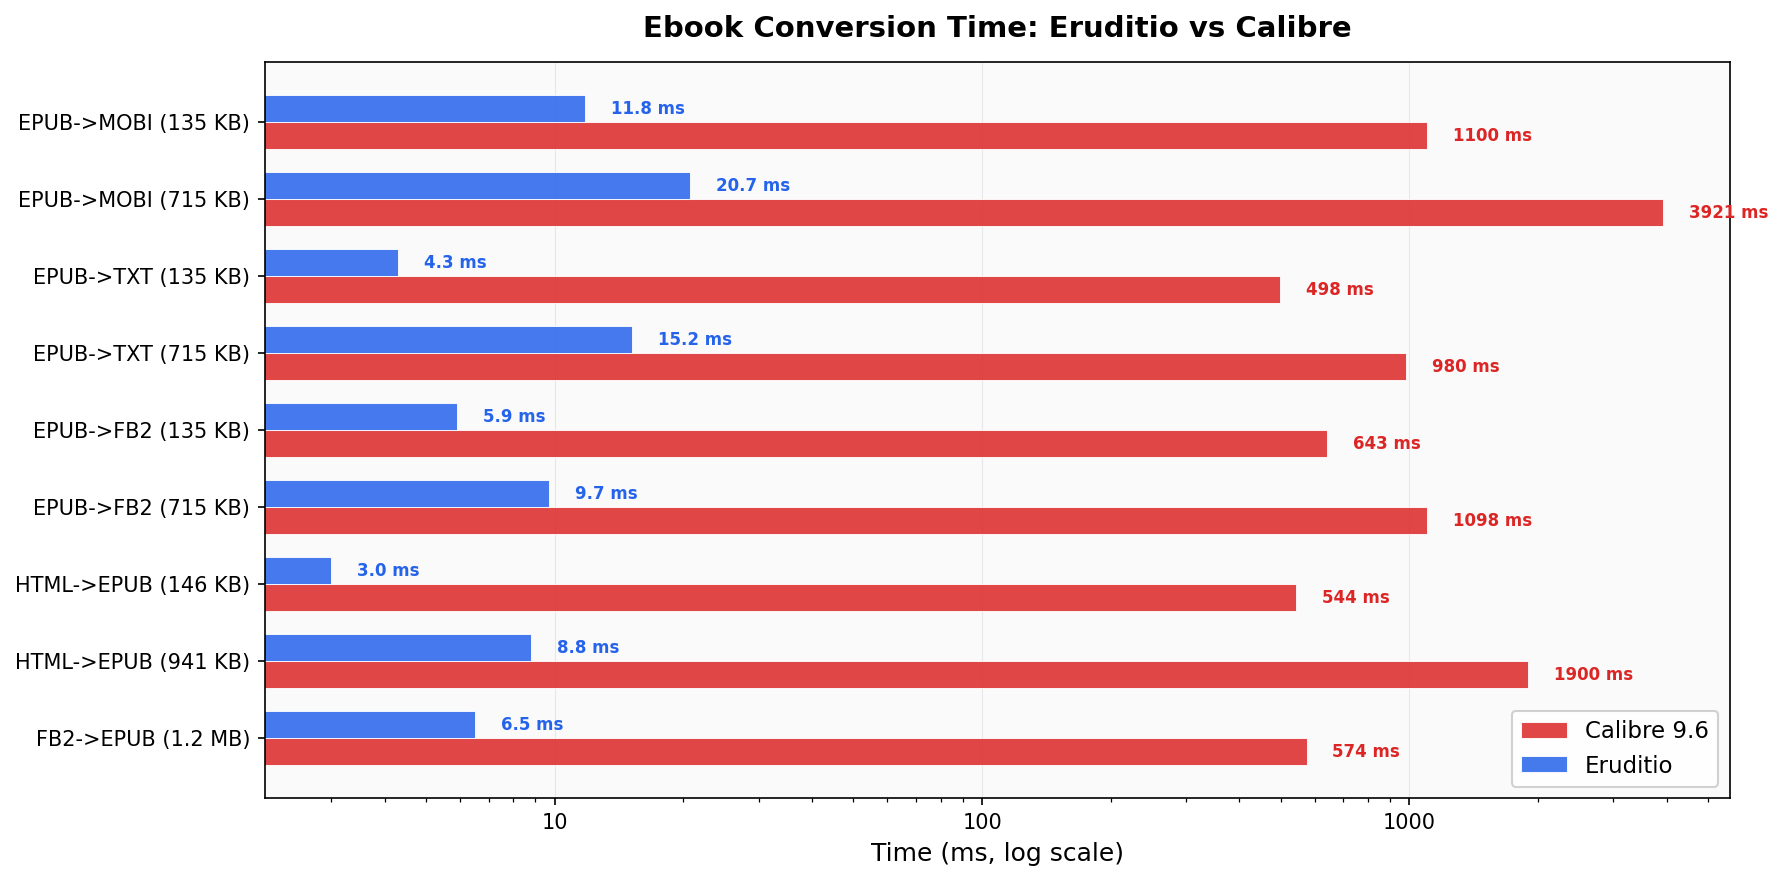
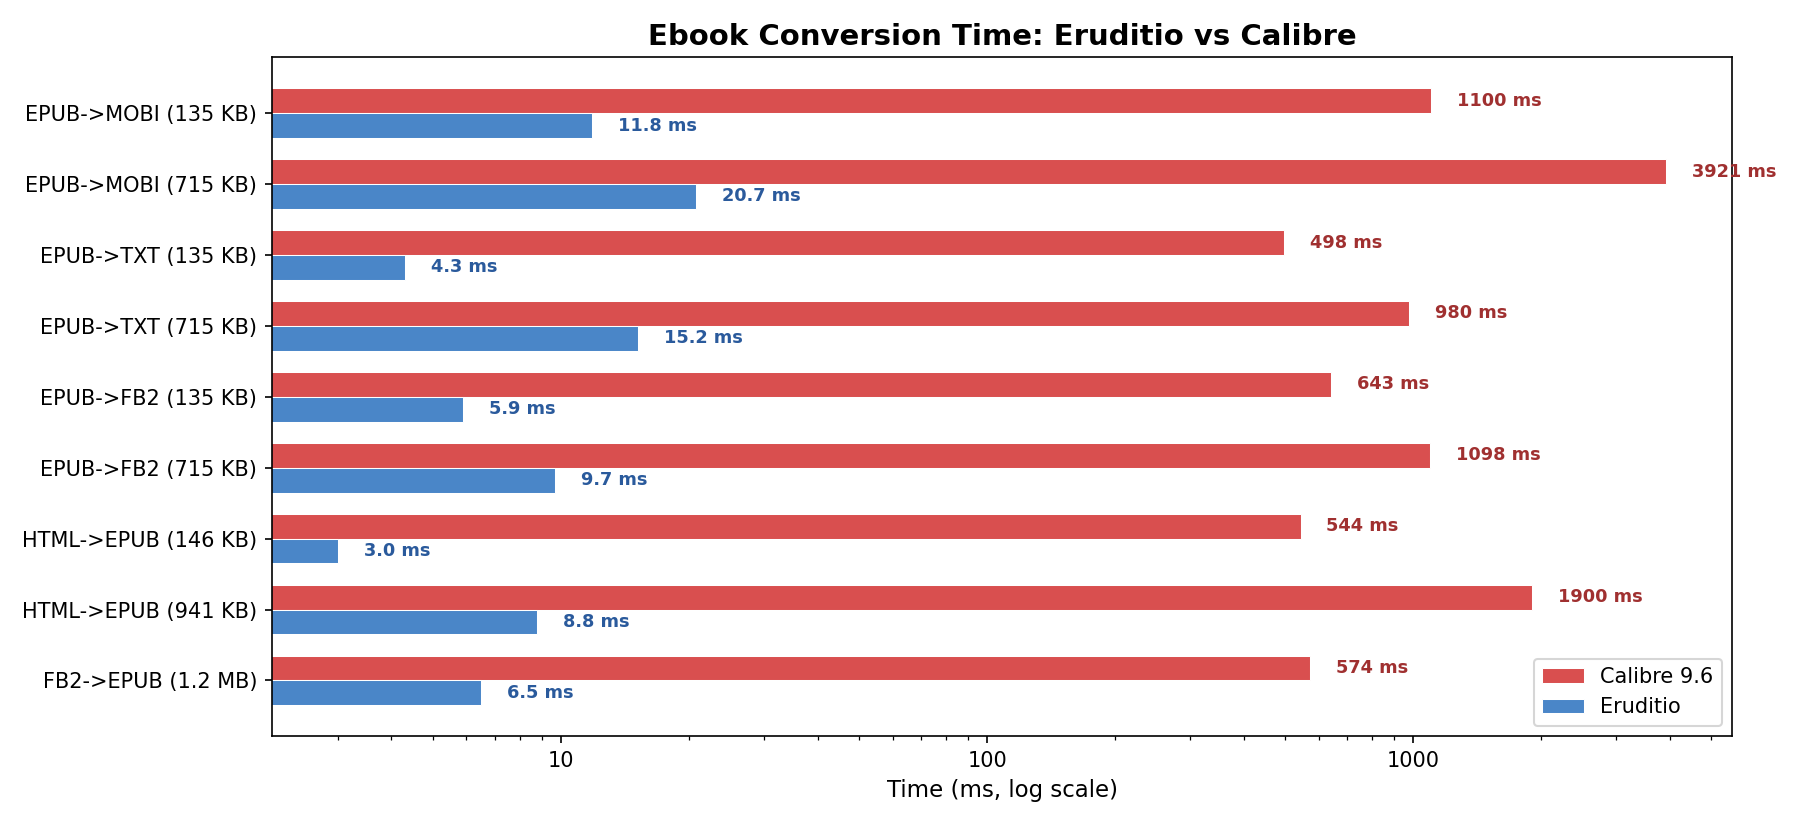
docs: update README with SIMD intrinsics benchmarks and add plot generation script
Add SIMD Intrinsics Throughput section to README with AVX-512 vs Scalar
performance table. Add scripts/generate_plots.py for reproducible benchmark
visualization from Criterion JSON data. Regenerate all benchmark plots.

diff --git a/scripts/generate_plots.py b/scripts/generate_plots.py
@@ -1,0 +1,187 @@
+#!/usr/bin/env python3
+"""Generate benchmark plots for the Eruditio README.
+
+Outputs:
+  media/conversion_time.png  — Eruditio vs Calibre bar chart (log scale)
+  media/speedup.png          — Speedup factor bar chart
+  media/intrinsics.png       — SIMD intrinsics throughput (scalar vs AVX512)
+"""
+
+import json
+from pathlib import Path
+
+import matplotlib
+matplotlib.use("Agg")
+import matplotlib.pyplot as plt
+import matplotlib.ticker as ticker
+import numpy as np
+
+ROOT = Path(__file__).resolve().parent.parent
+MEDIA = ROOT / "media"
+CRITERION = ROOT / "target" / "criterion"
+
+# ── Calibre comparison data (from real-world median-of-7 measurements) ────────
+
+CONVERSIONS = [
+    ("EPUB->MOBI (135 KB)",  11.8,  1100),
+    ("EPUB->MOBI (715 KB)",  20.7,  3921),
+    ("EPUB->TXT (135 KB)",    4.3,   498),
+    ("EPUB->TXT (715 KB)",   15.2,   980),
+    ("EPUB->FB2 (135 KB)",    5.9,   643),
+    ("EPUB->FB2 (715 KB)",    9.7,  1098),
+    ("HTML->EPUB (146 KB)",   3.0,   544),
+    ("HTML->EPUB (941 KB)",   8.8,  1900),
+    ("FB2->EPUB (1.2 MB)",    6.5,   574),
+]
+
+# ── Plot 1: Conversion time (horizontal bar, log scale) ──────────────────────
+
+def plot_conversion_time():
+    labels = [c[0] for c in CONVERSIONS]
+    eruditio = [c[1] for c in CONVERSIONS]
+    calibre = [c[2] for c in CONVERSIONS]
+
+    fig, ax = plt.subplots(figsize=(12, 5.5))
+    y = np.arange(len(labels))
+    h = 0.35
+
+    bars_c = ax.barh(y - h / 2, calibre, h, label="Calibre 9.6", color="#d94f4f",
+                     edgecolor="white", linewidth=0.5)
+    bars_e = ax.barh(y + h / 2, eruditio, h, label="Eruditio", color="#4a86c8",
+                     edgecolor="white", linewidth=0.5)
+
+    ax.set_xscale("log")
+    ax.set_xlabel("Time (ms, log scale)", fontsize=11)
+    ax.set_yticks(y)
+    ax.set_yticklabels(labels, fontsize=10)
+    ax.invert_yaxis()
+    ax.set_title("Ebook Conversion Time: Eruditio vs Calibre", fontsize=14, fontweight="bold")
+    ax.legend(loc="lower right", fontsize=10)
+    ax.xaxis.set_major_formatter(ticker.ScalarFormatter())
+
+    for bar, val in zip(bars_e, eruditio):
+        ax.text(bar.get_width() * 1.15, bar.get_y() + bar.get_height() / 2,
+                f"{val} ms", va="center", fontsize=8.5, color="#2a5a9c", fontweight="bold")
+    for bar, val in zip(bars_c, calibre):
+        ax.text(bar.get_width() * 1.15, bar.get_y() + bar.get_height() / 2,
+                f"{val} ms", va="center", fontsize=8.5, color="#a03030", fontweight="bold")
+
+    fig.tight_layout()
+    fig.savefig(MEDIA / "conversion_time.png", dpi=150)
+    plt.close(fig)
+    print(f"  wrote {MEDIA / 'conversion_time.png'}")
+
+
+# ── Plot 2: Speedup factor ───────────────────────────────────────────────────
+
+def plot_speedup():
+    labels = [c[0] for c in CONVERSIONS]
+    speedups = [round(c[2] / c[1]) for c in CONVERSIONS]
+    avg = sum(speedups) / len(speedups)
+
+    fig, ax = plt.subplots(figsize=(12, 5))
+    y = np.arange(len(labels))
+
+    # Gradient-like coloring: darker blue for higher speedup
+    max_s = max(speedups)
+    colors = [plt.cm.Blues(0.35 + 0.55 * s / max_s) for s in speedups]
+
+    bars = ax.barh(y, speedups, 0.55, color=colors, edgecolor="white", linewidth=0.5)
+
+    ax.axvline(avg, color="#e09520", linestyle="--", linewidth=1.5, zorder=0)
+    ax.text(avg + 2, len(labels) - 0.5, f"avg: {avg:.0f}x",
+            color="#c07000", fontsize=10, fontweight="bold")
+
+    for bar, s in zip(bars, speedups):
+        ax.text(bar.get_width() + 2, bar.get_y() + bar.get_height() / 2,
+                f"{s}x", va="center", fontsize=10, color="#1a3a6a", fontweight="bold")
+
+    ax.set_xlabel("Speedup (x faster than Calibre)", fontsize=11)
+    ax.set_yticks(y)
+    ax.set_yticklabels(labels, fontsize=10)
+    ax.invert_yaxis()
+    ax.set_title("Eruditio Speedup over Calibre", fontsize=14, fontweight="bold")
+    ax.set_xlim(0, max(speedups) + 30)
+
+    fig.tight_layout()
+    fig.savefig(MEDIA / "speedup.png", dpi=150)
+    plt.close(fig)
+    print(f"  wrote {MEDIA / 'speedup.png'}")
+
+
+# ── Plot 3: SIMD intrinsics throughput ────────────────────────────────────────
+
+def read_criterion(bench_name):
+    """Read the mean point estimate (ns) from a Criterion benchmark."""
+    path = CRITERION / bench_name / "new" / "estimates.json"
+    if not path.exists():
+        return None
+    with open(path) as f:
+        d = json.load(f)
+    return d["mean"]["point_estimate"]
+
+
+def plot_intrinsics():
+    # (label, data_size_bytes, scalar_bench_or_None, simd_bench)
+    intrinsics = [
+        ("is_ascii\n(1 KB)",          1024,  "is_ascii_scalar_1k",           "is_ascii_simd_1k"),
+        ("skip_ws\n(1 KB)",           1024,  "skip_ws_scalar_1k",            "skip_ws_simd_1k"),
+        ("short_pat\n(10 KB miss)",   10000, "short_pat_scalar_2b_miss_10k", "short_pat_simd_2b_miss_10k"),
+        ("cp1252\n(10 KB ASCII)",     10000, None,                           "cp1252_decode_10k_ascii"),
+        ("byte_scan\n(10 KB clean)",  10000, None,                           "byte_scan_clean_10k"),
+        ("case_fold\n(1 KB)",         1024,  None,                           "case_fold_eq_1k"),
+    ]
+
+    labels, scalar_tp, simd_tp = [], [], []
+    for label, size, scalar_name, simd_name in intrinsics:
+        m_ns = read_criterion(simd_name)
+        if m_ns is None:
+            continue
+        s_ns = read_criterion(scalar_name) if scalar_name else None
+        labels.append(label)
+        scalar_tp.append(size / s_ns if s_ns else 0)
+        simd_tp.append(size / m_ns)
+
+    if not labels:
+        print("  skipped intrinsics.png (no criterion data)")
+        return
+
+    fig, ax = plt.subplots(figsize=(11, 5))
+    x = np.arange(len(labels))
+    w = 0.35
+
+    # Scalar bars (only where we have data)
+    bars_s = ax.bar(x - w / 2, scalar_tp, w, label="Scalar", color="#b0b0b0",
+                    edgecolor="white", linewidth=0.5)
+    bars_m = ax.bar(x + w / 2, simd_tp, w, label="AVX-512", color="#2e7d32",
+                    edgecolor="white", linewidth=0.5)
+
+    max_val = max(max(scalar_tp), max(simd_tp))
+    for bar, val in zip(bars_s, scalar_tp):
+        if val > 0:
+            ax.text(bar.get_x() + bar.get_width() / 2, bar.get_height() + max_val * 0.01,
+                    f"{val:.1f}", ha="center", fontsize=8.5, color="#555")
+    for bar, val in zip(bars_m, simd_tp):
+        ax.text(bar.get_x() + bar.get_width() / 2, bar.get_height() + max_val * 0.01,
+                f"{val:.1f}", ha="center", fontsize=8.5, color="#1b5e20", fontweight="bold")
+
+    ax.set_ylabel("Throughput (GB/s)", fontsize=11)
+    ax.set_xticks(x)
+    ax.set_xticklabels(labels, fontsize=9)
+    ax.set_title("SIMD Intrinsics Throughput (AVX-512 vs Scalar)", fontsize=14, fontweight="bold")
+    ax.legend(loc="upper right", fontsize=10)
+    ax.set_ylim(0, max_val * 1.2)
+
+    fig.tight_layout()
+    fig.savefig(MEDIA / "intrinsics.png", dpi=150)
+    plt.close(fig)
+    print(f"  wrote {MEDIA / 'intrinsics.png'}")
+
+
+if __name__ == "__main__":
+    MEDIA.mkdir(exist_ok=True)
+    print("Generating benchmark plots...")
+    plot_conversion_time()
+    plot_speedup()
+    plot_intrinsics()
+    print("Done.")

diff --git a/README.md b/README.md
@@ -28,6 +28,21 @@ Eruditio is written in pure Rust with zero-copy parsing, SIMD-accelerated text p
 
 Measured on the same machine, median of 7 runs, using public domain Project Gutenberg ebooks. Calibre version 9.6.0.
 
+### SIMD Intrinsics Throughput
+
+![SIMD intrinsics throughput](media/intrinsics.png)
+
+All text-processing hot paths use hand-tuned AVX-512/AVX2/SSE2/NEON intrinsics with runtime feature detection. On AVX-512BW capable hardware:
+
+| Intrinsic | Throughput | Scalar Baseline | Speedup |
+|---|---:|---:|---:|
+| `is_ascii` (1 KB) | 282 GB/s | 4.2 GB/s | **67x** |
+| `short_pattern` (10 KB) | 96 GB/s | 3.8 GB/s | **25x** |
+| `skip_whitespace` (1 KB) | 76 GB/s | 3.3 GB/s | **23x** |
+| `byte_scan` (10 KB) | 78 GB/s | -- | -- |
+| `cp1252_decode` (10 KB) | 72 GB/s | -- | -- |
+| `case_fold` (1 KB) | 39 GB/s | -- | -- |
+
 ## Supported Formats
 
 ### Reading (31 formats)
@@ -185,7 +200,8 @@ let book = EruditioParser::parse(&mut cursor, Some("fb2"))?;
 src/
 ├── domain/          Core models (Book, Chapter, Metadata, Resource, Format)
 ├── formats/         Format-specific readers and writers
-│   ├── common/      Shared utilities (XML, HTML, ZIP, ITSS container, intrinsics)
+│   ├── common/      Shared utilities (XML, HTML, ZIP, ITSS container)
+│   │   └── intrinsics/  SIMD-accelerated text primitives (AVX-512/AVX2/SSE2/NEON/SIMD128)
 │   ├── epub/        EPUB reader/writer
 │   ├── mobi/        MOBI/KF8 reader/writer
 │   ├── djvu/        DjVu reader (IFF85 parser + BZZ decompressor)
@@ -203,12 +219,12 @@ src/
 └── lib.rs           Public API re-exports
 ```
 
-~50,000 lines of Rust across the library, tests, and benchmarks.
+~51,000 lines of Rust across the library, tests, and benchmarks.
 
 Key design principles:
 
 - **Pure Rust**: No C/C++ dependencies for format parsing. BZZ, LZX, MS DES, MS SHA-1, PalmDOC LZ77, and Huffman/CDIC decoders are all implemented in Rust.
-- **SIMD-accelerated**: Hot paths use `memchr` and hand-tuned byte scanning for whitespace skipping, pattern matching, and HTML entity decoding.
+- **SIMD-accelerated**: Hot paths use hand-tuned AVX-512BW/AVX2/SSE2 (x86), NEON (aarch64), and SIMD128 (wasm32) intrinsics with runtime feature detection for ASCII validation, whitespace skipping, byte scanning, pattern matching, case folding, and CP-1252 decoding.
 - **Stream-oriented**: All readers accept `&mut dyn Read`, enabling parsing from files, network streams, or in-memory buffers.
 - **Trait-based**: `FormatReader` and `FormatWriter` traits allow uniform handling across all formats.
 - **Immutability**: `Book` and all domain types are treated as immutable values. Transforms produce new `Book` instances.
@@ -226,13 +242,17 @@ cargo +nightly test lit
 cargo +nightly test chm
 ```
 
-The test suite includes 1000+ tests covering unit tests within each format module and integration tests in `tests/`.
+The test suite includes 1,070+ tests covering unit tests within each format module and integration tests in `tests/`.
 
 ### Running Benchmarks
 
 ```bash
 # Criterion micro-benchmarks
+cargo +nightly bench --bench intrinsics
 cargo +nightly bench --bench conversion
+
+# Generate benchmark plots (requires matplotlib, numpy)
+python3 scripts/generate_plots.py
 
 # Full comparison against Calibre (requires ebook-convert)
 python3 bench_compare.py
